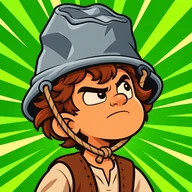
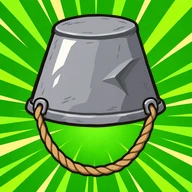
Гербы титулов, значок ведра, карточка за прочтение Соглашения
- шесть гербов титулов (assets_src/crests, web/assets/crests): в углу экрана, в «Личном деле» и «Итоге жизни»;
- значок шапки-ведра для ячейки;
- «Прочитать Соглашение целиком» теперь даёт карточку «Пункт 14.3 Соглашения» (eula_known).

diff --git a/web/src/rules.ts b/web/src/rules.ts
@@ -1,6 +1,7 @@
 // Правила игры. Экрана здесь нет: всё, что надо показать или спросить, уходит в io.
 // Это тот же порядок действий, что в story/tools/build.py (класс Life): правку правил вносим в оба места.
 import { D, STAT, SUBS, TAGS, UNIVERSAL, SCENES, StatKey } from "./data";
+import { crestImg } from "./overlay";
 
 export type LogLine = { stat?: StatKey; d?: number; give?: string; take?: string; record?: string; note?: string };
 export type Ctx = { scene: any; ch?: any; text: string; adds?: string[]; enter?: LogLine[]; then?: string | null };
@@ -515,7 +516,7 @@ export async function afterlife(L: Life, io: IO, alive: boolean) {
     "Мама сказала: «Молодец» — " + said("great") + ", «Ну, сойдёт» — " + said("ok") + ", «Позор семьи» — " + said("shame") + ".",
     "Записей в личном деле: " + L.records.length + ".",
   ].filter(Boolean);
-  const tags = Object.keys(TAGS).map((t) => esc(TAGS[t].title) + ": " + (cnt[t] || 0) + " из " + need + ((cnt[t] || 0) >= need ? " — <b>титул</b>" : ""));
+  const tags = Object.keys(TAGS).map((t) => ((cnt[t] || 0) >= need ? crestImg(t, 44) : "") + esc(TAGS[t].title) + ": " + (cnt[t] || 0) + " из " + need + ((cnt[t] || 0) >= need ? " — <b>титул</b>" : ""));
   let sum = li(rows) + "<p>Записи по родам. " + need + " записи одного рода дают титул и подарок на следующую жизнь:</p>" + li(tags);
   if (seen) {
     const all = Object.keys(A.endings || {}).filter((k) => k[0] !== "_").length;

diff --git a/web/src/overlay.ts b/web/src/overlay.ts
@@ -1,6 +1,9 @@
 // Длинные тексты, списки и простые меню показываем обычной вёрсткой поверх игры:
 // личное дело, смерть, Небесная HR, список исправлений, настройки.
 import { D, TAGS } from "./data";
+import { TEX } from "./assets";
+/** Герб титула картинкой для страниц (если нарисован). */
+export const crestImg = (t: string, size: number) => (TEX["crest_" + t] ? '<img class="crest" src="' + TEX["crest_" + t] + '" width="' + size + '" height="' + size + '" alt="">' : "");
 import type { Life, Meta, PathMark } from "./rules";
 import { loadSettings, saveSettings } from "./audio";
 
@@ -63,7 +66,7 @@ export const showChoice = (title: string, html: string, main: string, other: str
 /** Личное дело героя: все записи этой жизни и титул. */
 export function showFile(L: Life): Promise<void> {
   const t = L.title();
-  const head = t ? "<p><b>Титул: " + esc(TAGS[t].title) + ".</b></p>" : "<p>Титула пока нет: нужно четыре записи одного рода.</p>";
+  const head = t ? '<p class="crest-head">' + crestImg(t, 96) + "<b>Титул: " + esc(TAGS[t].title) + ".</b></p>" : "<p>Титула пока нет: нужно четыре записи одного рода.</p>";
   const list = L.records.length
     ? "<ol>" + L.records.map((r) => {
         const rec = D.records[r] || { text: r };

diff --git a/web/src/GameScene.ts b/web/src/GameScene.ts
@@ -1687,7 +1687,15 @@ export class GameScene extends Phaser.Scene {
     this.side.add(plank(this, bx, fy, 270, 78, "Личное дело", () => showFile(L), 27));
     if (L.records.length) this.side.add(this.dot(bx + 128, fy - 36, 23, C.red, String(L.records.length), L.records.length > 9 ? 20 : 24));
     const t = L.title();
-    if (t) this.side.add(plate(this, "Титул: " + TAGS[t].title, 22).setPosition(bx, fy + 84));
+    if (t) {
+      // титул — гербом с подписью (автор: «титулы оформил бы нормально — в виде гербов»)
+      if (this.textures.exists("crest_" + t)) {
+        const cr = this.add.image(bx, fy + 140, "crest_" + t);
+        cr.setScale(170 / Math.max(cr.width, cr.height));
+        const nm = txt(this, bx, fy + 232, TAGS[t].title, 26, C.cream).setOrigin(0.5).setStroke(hex(C.ink), 7);
+        this.side.add([cr, nm]);
+      } else this.side.add(plate(this, "Титул: " + TAGS[t].title, 22).setPosition(bx, fy + 84));
+    }
     // меню — круглая кнопка с шестерёнкой (автор: «меню сделать шестерёнкой как-то или иконкой»)
     const mx = W - 60, my = H - 56;
     if (this.textures.exists("icon_menu")) {

diff --git a/web/index.html b/web/index.html
@@ -80,6 +80,9 @@
       /* холодный «казённый» вид: Небесная HR, список исправлений */
       /* печать на «Итоге жизни»: падает крупной и прозрачной, бьёт — папка вздрагивает */
       #ov-panel { position: relative; }
+      /* гербы титулов на страницах */
+      img.crest { vertical-align: middle; margin-right: 8px; filter: drop-shadow(0 3px 0 rgba(0,0,0,.35)); }
+      .crest-head { display: flex; align-items: center; gap: 6px; font-size: 1.15em; }
       .ov-stamp { position: absolute; right: 13%; top: 42%; z-index: 3; pointer-events: none; font: 400 clamp(30px, 3.6vw, 62px)/1 "Ruslan Display", Georgia, serif; color: #b3261e; text-transform: uppercase; letter-spacing: 1px; padding: 14px 26px; border: 7px solid #b3261e; border-radius: 12px; outline: 3px solid #b3261e; outline-offset: -15px; opacity: 0.85; transform: rotate(-9deg); mix-blend-mode: multiply; animation: stampIn 0.32s 0.45s cubic-bezier(.5, 0, .9, .6) both; }
       @keyframes stampIn { from { opacity: 0; transform: rotate(-22deg) scale(2.8); } to { opacity: 0.85; transform: rotate(-9deg) scale(1); } }
       #ov-panel.thud { animation: thud 0.18s 0.77s ease-out; }

diff --git a/web/src/assets.ts b/web/src/assets.ts
@@ -28,6 +28,9 @@ for (const [p, u] of Object.entries(cbg)) TEX["cbg_" + name(p)] = u;
 // значки уникальных карточек для ячеек (готовые 192 точки): web/assets/card_icons/<рисунок>.webp → «cico_<рисунок>»
 const cico = import.meta.glob("../assets/card_icons/*.webp", { eager: true, query: "?url", import: "default" }) as Record<string, string>;
 for (const [p, u] of Object.entries(cico)) TEX["cico_" + name(p)] = u;
+// гербы титулов: web/assets/crests/<титул>.webp → «crest_<титул>» (готовит web/tools/prepare_crests.py)
+const crest = import.meta.glob("../assets/crests/*.webp", { eager: true, query: "?url", import: "default" }) as Record<string, string>;
+for (const [p, u] of Object.entries(crest)) TEX["crest_" + name(p)] = u;
 
 /** Фон, которого ещё нет, заменяется похожим. */
 // Запасной фон: что показывать, пока своего рисунка у места нет. Берётся из story/bg.json (поле now).

diff --git a/refs/tools/ui_gen/gen_crests.py b/refs/tools/ui_gen/gen_crests.py
@@ -1,0 +1,27 @@
+# -*- coding: utf-8 -*-
+# Гербы титулов (автор: «титулы я бы оформил нормально — тоже можно сгенерить в виде гербов»).
+# Один герб на титул, в нашей рисовке значков; на белом. Кладёт в assets_src/crests/<титул>.png.
+# Запуск из корня: python3 refs/tools/ui_gen/gen_crests.py [титулы через запятую]
+import subprocess, sys
+
+CRESTS = {
+    "obey": "Obedient: a pale blue shield with a neatly folded pair of praying hands and a small halo above, a white "
+            "ribbon below",
+    "rebel": "Rebel: a dark red shield with a raised clenched fist breaking a chain, a torn black ribbon below",
+    "deal": "Dealer: a green shield with a pair of scales and a stack of gold coins, a gold ribbon below",
+    "invent": "Inventor: a purple shield with a pig carrying a wooden shovel and a cog wheel behind it, a ribbon below",
+    "tinfoil": "Conspiracy believer: a dark teal shield with a tin bucket worn as a hat and a watchful eye, a ribbon below",
+    "team": "Soul of the village: a warm orange shield with a little thatched hut and a big red heart above it, a "
+            "ribbon below",
+}
+only = sys.argv[1].split(",") if len(sys.argv) > 1 else list(CRESTS)
+for k in only:
+    p = ("@img1 shows game icons in our style. Draw one heraldic coat of arms as a game badge in exactly the same drawing "
+         "style: a 2D cartoon look, clean thick dark outline, bold flat colours with two-tone cel shading and crisp "
+         "highlights. A sturdy shield with a carved wooden and brass rim, a small brass crown or helmet on top, a curling "
+         "blank ribbon banner under it. The emblem: " + CRESTS[k] + ". Humorous medieval village heraldry, chunky and "
+         "readable at small size. Centred on a plain pure white background, no shadow. No text, no letters on the ribbon, "
+         "no numbers, no logos.")
+    r = subprocess.run([sys.executable, "web/tools/codex_image.py", "--out", f"assets_src/crests/{k}.png", "--size", "square",
+                        "--ref", "refs/ui_mock/primer_ikonki.png", p], capture_output=True, text=True)
+    print(k, (r.stdout + r.stderr)[-20:], flush=True)

diff --git a/web/tools/prepare_crests.py b/web/tools/prepare_crests.py
@@ -1,0 +1,18 @@
+#!/usr/bin/env python3
+# -*- coding: utf-8 -*-
+"""Гербы титулов: assets_src/crests/<титул>.png (на белом) → web/assets/crests/<титул>.webp без фона, 320 точек.
+Запуск из корня: python3 -I web/tools/prepare_crests.py"""
+import os, site, sys
+sys.path.append(site.getusersitepackages())
+sys.path.insert(0, os.path.dirname(os.path.abspath(__file__)))
+from PIL import Image
+from cut_bg import cut
+
+ROOT = os.path.join(os.path.dirname(os.path.abspath(__file__)), "..", "..")
+SRC, OUT = os.path.join(ROOT, "assets_src", "crests"), os.path.join(ROOT, "web", "assets", "crests")
+os.makedirs(OUT, exist_ok=True)
+for f in sorted(os.listdir(SRC)):
+    if f.endswith(".png"):
+        out, share, _ = cut(Image.open(os.path.join(SRC, f)), inner=True, size=320, margin=0.02)
+        out.save(os.path.join(OUT, f[:-4] + ".webp"), quality=90, method=4)
+        print(f[:-4], out.size, f"фон {share:.0%}")

diff --git a/refs/tools/ui_gen/gen_card_icons.py b/refs/tools/ui_gen/gen_card_icons.py
@@ -10,6 +10,9 @@ JOBS = {
     "o_scar": "an old jagged scar mark like a crooked line with a few cross stitches, on a small patch of skin, as a "
               "simple bold emblem.",
     # автор: «ооо, давай иконку ворона и телефона тогда тоже поменяем, хорошо получилось»
+    # автор: «нужно сделать мини-иконку ведра на голову»
+    "o_foil_hat": "a dented grey tin bucket turned upside down to be worn as a hat, with a rope chin strap, bold and "
+                  "simple, no person.",
     "o_birds": "the head of a sly black crow peeking through a small brass spyglass, bold and simple.",
     "o_wooden_phone": "a small smartphone made of grey tree bark seen from the back, with a carved turnip on it and a "
                       "knot hole for a camera, a turquoise glow at its edge, bold and simple.",

diff --git a/decisions.md b/decisions.md
@@ -197,6 +197,8 @@
 - **Наведение — блик по форме карты, без огоньков** (автор: «Не-не, вот у тебя полоса была — чтоб она была по форме карточки, до этого не по ней было. А звёзды по кругу убери — они крутые, но тут не подходят»). Бегущие огоньки убраны. Блик рисуется на холсте, обрезанном по скруглённой рамке карты, и пробегает наискось только внутри неё. Золотая линия по рамке, подъём, свет за картой и затемнение соседних остались. Анимация: `refs/ui_mock/effekt_hover.gif`. Робот: 400 жизней, ошибок 0.
 - **Блик без «молнии»** (автор: «Какая-то молния пролетает, или мне кажется»). Блик был четырёхугольником с резкими косыми краями — мелькал как молния. Теперь это мягкий градиент поперёк наклонной полосы на всю карту, без жёстких краёв, чуть слабее. Робот: 400 жизней, ошибок 0.
 - **Наведение одобрено** (автор: «Да, хорошо»).
+- **Ведро-значок, гербы титулов, карточка за Соглашение** (автор: «Нужно сделать мини-иконку ведра на голову; титулы я бы оформил нормально — тоже можно сгенерить в виде гербов; пропала иконка при повторном прохождении, когда читаешь пользовательское соглашение — не добавляется в предметы»). Значок ячейки для шапки-ведра — одно ведро с верёвкой. Гербы шести титулов (Послушный, Бунтарь, Делец, Изобретатель, Конспиролог, Душа деревни) — `refs/tools/ui_gen/gen_crests.py` → `assets_src/crests/`, в игру `web/tools/prepare_crests.py` → `web/assets/crests/`; герб с названием стоит справа под «Личным делом», в «Личном деле» и в «Итоге жизни». Соглашение: «Прочитать целиком» давало только запись `eula_read`, карточки не было никогда; добавлена карточка «Пункт 14.3 Соглашения» (`eula_known`, бумага, постоянная, рисунок `o_contract` — тот же, что у «Долга гоблину»). Сюжет проверен build.py, робот: 400 жизней, ошибок 0. Кадры: `refs/ui_mock/gerby.jpg`, `gerb_v_igre.jpg`.
+- **Гербы, ведро и карточка за Соглашение одобрены** (автор: «Одобряю»).
 - Старые тексты (`act_*.md`) не менялись. В `act_1_village_choices.md` сверху добавлена пометка, что это старая версия.
 
 Страницы в `refs/` в git не идут. Собрать заново: `python3 refs/tools/fetch_screens.py`, затем `python3 refs/tools/build_refs_page.py` и `python3 refs/tools/build_proposals_page.py`. Примеры автора в `refs/author_refs/` скриптом не качаются — если папки нет, попросить автора прислать их снова.

diff --git a/story/BOOK.md b/story/BOOK.md
@@ -5,7 +5,7 @@
 ## Коротко
 
 - Сцен: **68**, выборов: **368**, исходов: **348**.
-- Уникальных карточек: **26**, строк личного дела: **293**.
+- Уникальных карточек: **27**, строк личного дела: **293**.
 - Мест, где прошлое возвращается (условия по записям, карточкам и прошлым жизням): **180**.
 - Картинок для карточек выбора: **84** — 64 предметов и 20 жестов, которые повторяются.
 - Фонов: **53**, из них новый один — `bg_home_day` (изба).
@@ -99,7 +99,7 @@
   - *Тело −1 · Репутация −1 · позор для семьи · в личное дело: «Пытался пропустить собственное рождение. Обделался.»*
 - **Прочитать Соглашение жизни целиком** *(скрытый: не первая жизнь)*
   - Ты читал три дня. Мама обиделась, что ты на неё не смотришь, акушерка ушла домой. Зато теперь ты знаешь пункт 14.3: до восемнадцати лет тебя нельзя ни к чему принуждать без письменного предупреждения.
-  - *Менталка −1 · в личное дело: «Прочитал Соглашение жизни до конца. Три дня.» · род: изобретатель*
+  - *Менталка −1 · получена карточка «Пункт 14.3 Соглашения» (постоянная) · в личное дело: «Прочитал Соглашение жизни до конца. Три дня.» · род: изобретатель*
 
 ### Первое слово
 
@@ -1920,6 +1920,7 @@
 | Чулан под лестницей | подписка | Жильё в столице. Три сцены бесплатно, потом раз в две сцены хозяйка берёт монету. |
 | Латы не по размеру | разовая | Гремят на всю улицу. Пригодятся на турнире, один раз. |
 | Подписка на дракона | подписка | Раз в восемь сцен ты платишь монету за право смотреть, как дракон лежит на золоте. Переходит в следующую жизнь. Отказаться можно только в пещере. |
+| Пункт 14.3 Соглашения | постоянная | Ты прочитал Соглашение жизни целиком и знаешь пункт 14.3: до восемнадцати тебя нельзя ни к чему принуждать без письменного предупреждения. В некоторых сценах даёт особый выбор. |
 
 ## Картинки, которые нужны для первой части
 
